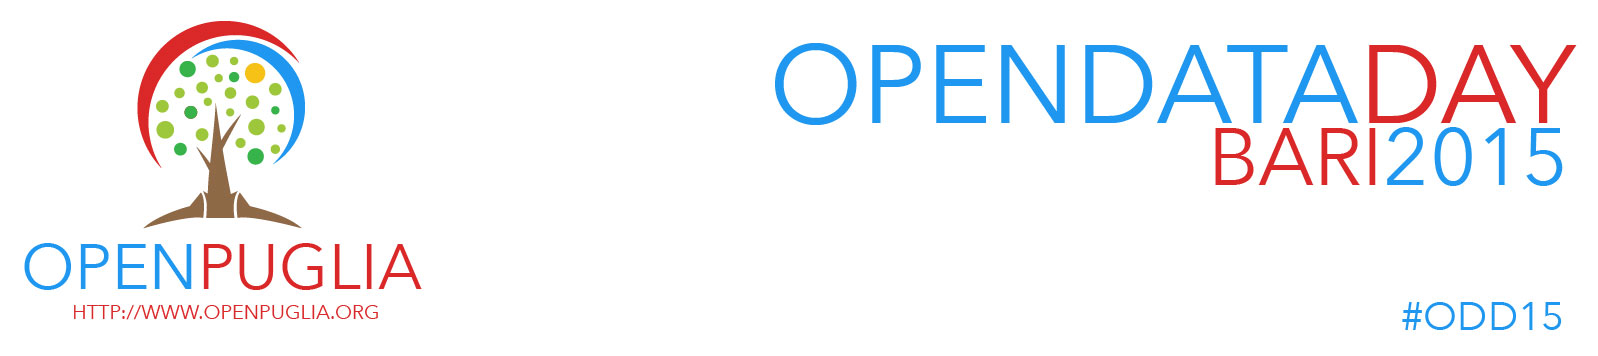
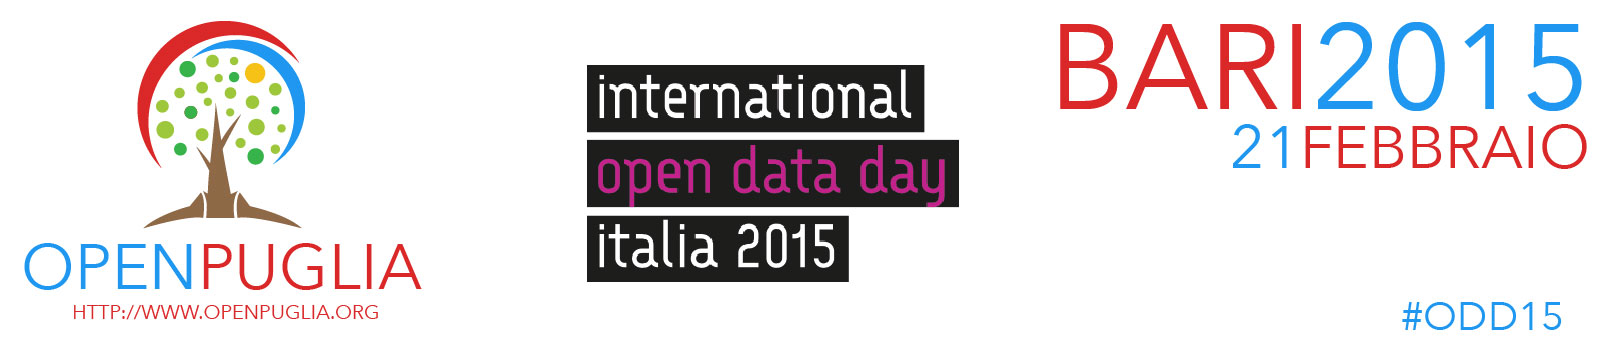
ADDED ODD15

Changed region(s): [[0.368, 0.0618, 1.0, 0.8034]]

diff --git a/_includes/header.html b/_includes/header.html
@@ -1,14 +1,7 @@
 <header class="site-header">
 
 	<div class="branding">
-<<<<<<< HEAD
     {% if site.theme.gravatar %}
-        <img class="avatar" src="http://www.gravatar.com/avatar/{{ site.theme.gravatar }}?s=100" alt=""/>
-    {% else if site.theme.avatar %}
-        <img class="avatar" src="{{ site.github.owner_gravatar_url }}" alt=""/>
-    {% endif %}
-=======
-		{% if site.theme.gravatar %}
     <a href="{{ site.baseurl }}/">
       <img class="avatar" src="https://secure.gravatar.com/avatar/{{ site.theme.gravatar }}?s=100" alt=""/>
     </a>
@@ -17,7 +10,6 @@
       <img class="avatar" src="/img/{{ site.theme.avatar }}" alt=""/>
     </a>
 		{% endif %}
->>>>>>> FETCH_HEAD
 		
 		<h1 class="site-title">
 			<a href="{{ site.baseurl }}/">{{ site.theme.title }}</a>

diff --git a/odd15.md b/odd15.md
@@ -5,4 +5,10 @@ permalink: /odd15/
 feature-img: "img/oddbari15.jpg"
 ---
 
-Work in progress ...
+## Sabato 21 Febbraio 2015, Aula Magna Politecnico di Bari
+
+Anche quest'anno Bari partecipa, all'International Open Data Day 2015 - una giornata sui dei dati aperti, un evento di diffusione della cultura degli opendata.
+
+La giornata inizierà alle ore 09.00, con una tavola rotonda introduttiva sul tema "Gli open data a sud"; seguirà un hackaton per imparare ad usare gli opendata, in cui gruppi di lavoro costituiti da sviluppatori, giornalisti, cittadini e esponenti di pubbliche amministrazioni avranno l'occasione di sperimentare in concreto come utilizzare i dati aperti per sviluppare idee e soluzioni innovative.
+
+<div style="width:100%; text-align:left;" ><iframe  src="//eventbrite.it/tickets-external?eid=15617866459&ref=etckt" frameborder="0" height="260" width="100%" vspace="0" hspace="0" marginheight="5" marginwidth="5" scrolling="auto" allowtransparency="true"></iframe><div style="font-family:Helvetica, Arial; font-size:10px; padding:5px 0 5px; margin:2px; width:100%; text-align:left;" ><a style="color:#ddd; text-decoration:none;" target="_blank" href="http://www.eventbrite.it/r/etckt">Vendi i biglietti</a> <span style="color:#ddd;">attraverso</span> <a style="color:#ddd; text-decoration:none;" target="_blank" href="http://www.eventbrite.it?ref=etckt">Eventbrite</a></div></div>
